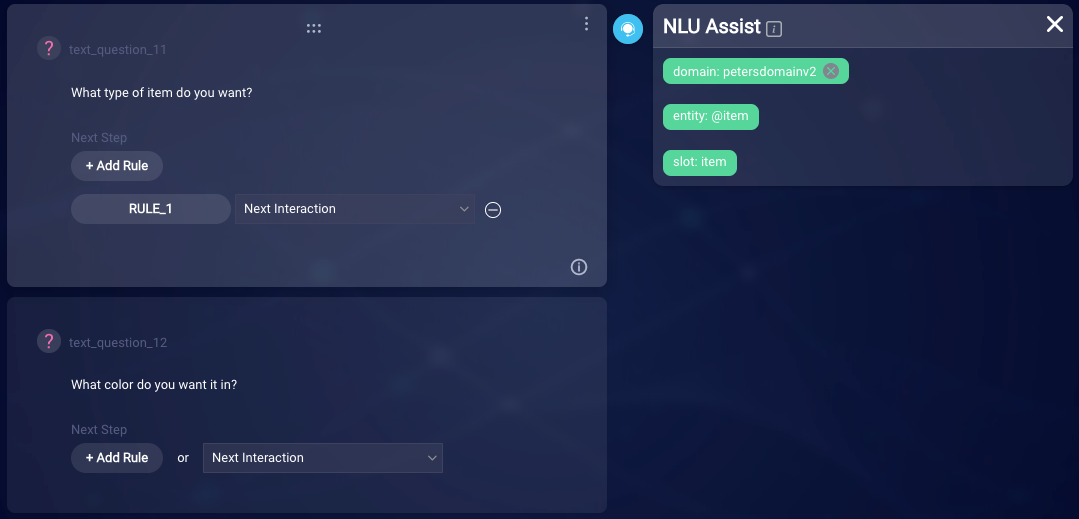
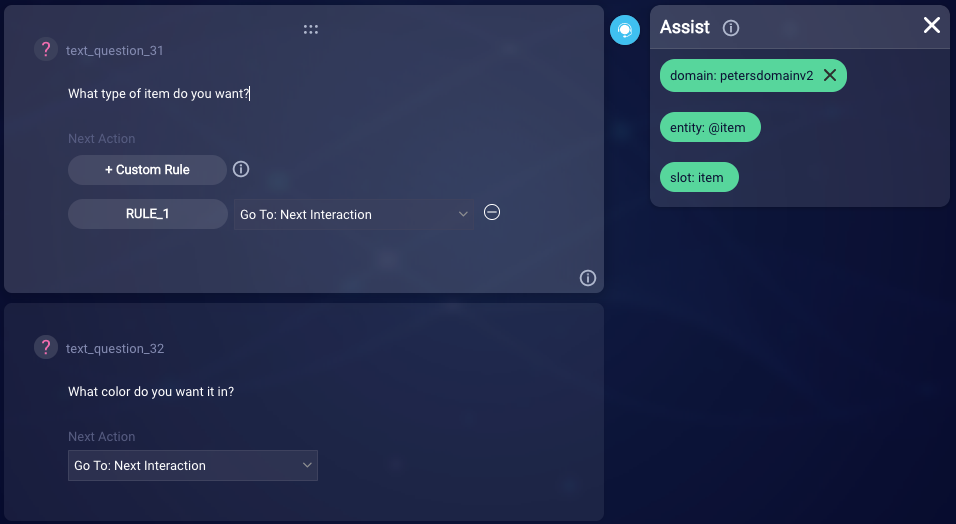
Update topic for Dialog Editor 2.0

diff --git a/pages/documents/ConversationalAI/ConversationBuilder/variablesAndSlots.md b/pages/documents/ConversationalAI/ConversationBuilder/variablesAndSlots.md
@@ -82,10 +82,10 @@ If your bot asked the user "which animal do you like?" and the user answered "do
 #### Slot filling with multi-entity extraction
 
 Slot-filling becomes especially useful when mining the entities that make up a user's intent to pre-populate your list of questions, and streamline the data collection process.
- 
+
 1. Create a [new dialog](conversation-builder-dialogs-dialog-basics.html#create-a-new-dialog) and associate an [intent from your domain](conversation-builder-intent-builder-overview.html) as the dialog starter. For this example we will create the dialog `ordering` with the domain intent `order item`.
-2. Now, devise a few [entities](intent-builder-entities.html) that will be captured in our intent. For this example, we are going to create an entity for `color` with the values `blue, white, and red`, one for `items` with `pants, shoes, shirt, underwear`. and finally, one for `sizes` with the values `small, medium, and large`. Before moving on, [update and train](intent-builder-domains.html#train-a-liveperson-nlu-v2-domain) the `ordering` intent with some representative training phrases that contain these entities.
-3. Next we will create the [questions](conversation-builder-interactions-questions.html#types-of-questions) our dialog will ask. You should add one question interaction per slot that you are looking to fill. Using [NLU Assist](conversation-builder-nlu-assist.html#assigning-an-intent-to-an-interaction), assign your entities to the relevant questions.
+2. Now, devise a few [entities](intent-builder-entities.html) that will be captured in our intent. For this example, we are going to create an entity for `color` with the values `blue, white, and red`, one for `item` with `pants, shoes, shirt, underwear`. and finally, one for `size` with the values `small, medium, and large`. Before moving on, [update and train](intent-builder-domains.html#train-a-liveperson-nlu-v2-domain) the `order item` intent with some representative training phrases that contain these entities.
+3. Next we will create the [questions](conversation-builder-interactions-questions.html#types-of-questions) our dialog will ask. You should add one question interaction per slot that you are looking to fill. Using [Assist](conversation-builder-nlu-assist.html#assigning-an-intent-to-an-interaction), assign your entities to the relevant questions.
 
     <img style="width:900px" class="fancyimage" src="img/ConvoBuilder/variables_and_slots/slot_nluassist.png">
 
@@ -95,7 +95,9 @@ Slot-filling becomes especially useful when mining the entities that make up a u
 
     <img style="width:600px" class="fancyimage" src="img/ConvoBuilder/variables_and_slots/slot_questions2.png">
 
-4. In the [rule](conversation-builder-interactions-configuration-next-action.html#custom-rules) for each question, we will create a slot variable that contains our slot variable (`item`) and whose value is the entity value `@item`. Repeat this for every question in our dialog, and associate it with the entity that most closely matches the subject of the question.
+    <img style="width:600px" class="fancyimage" src="img/ConvoBuilder/variables_and_slots/slot_questions2.png">
+
+4. In the [rule](conversation-builder-interactions-configuration-next-action.html#custom-rules) for each question, we will create a slot variable that contains our slot variable (`item`) and whose value is the entity value (`@item`). Repeat this for every question in our dialog, and associate it with the entity that most closely matches the subject of the question.
 
     <img style="width:800px" class="fancyimage" src="img/ConvoBuilder/variables_and_slots/slot_fill.png">
 
